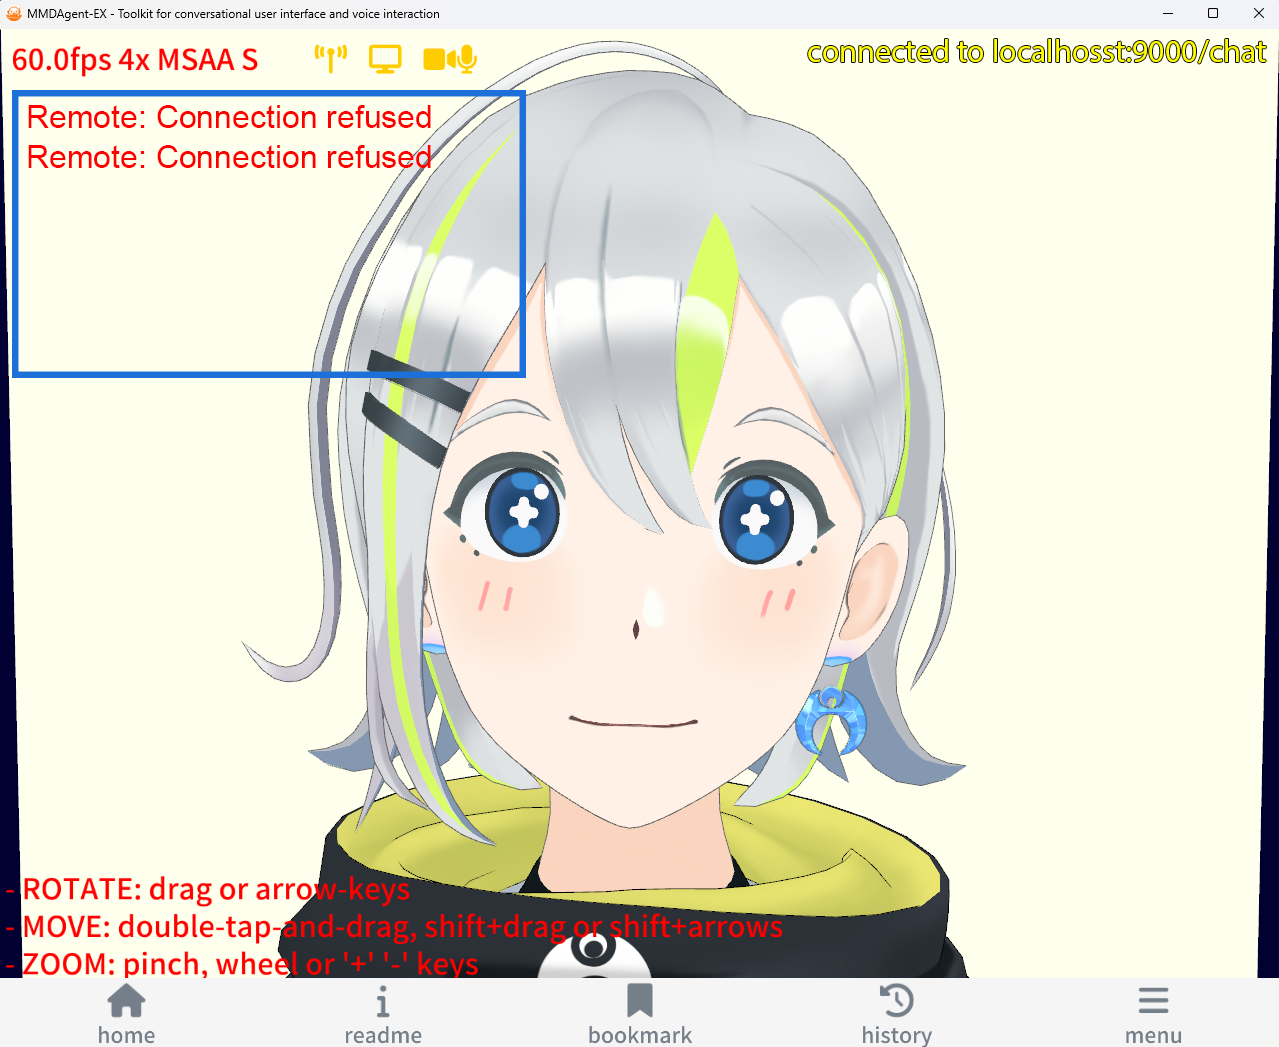
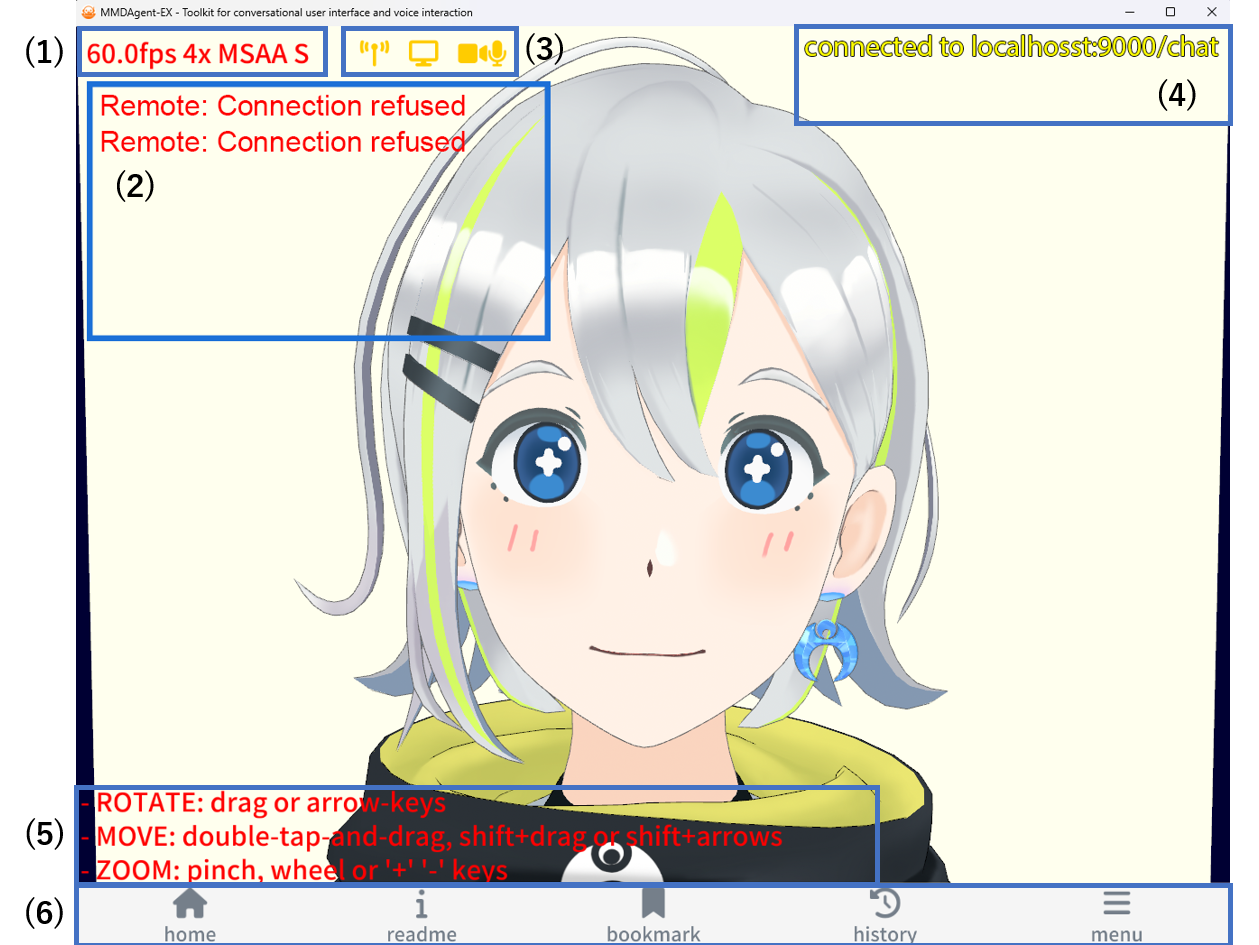
updating existing documents

Changed region(s): [[0.0, 0.0, 1.0, 1.0], [0.4647, 0.6751, 0.5576, 0.7058], [0.4956, 0.5831, 0.5266, 0.6138]]

diff --git a/content.ja/docs/10_screen.md b/content.ja/docs/10_screen.md
@@ -2,45 +2,46 @@
 title: ウィンドウの見方
 slug: screen
 ---
+# ウィンドウの見方
 
-スクリーンショット：
+コンテンツ再生時の画面サンプル：
 
 ![サンプル画面](/images/screen.png)
 
-### 青枠内：エラーメッセージ
+### (1) 表示状態
 
-エラー時に左上の青枠の部分にエラーメッセージが常時表示される
-
-
-### 左上：動作状態
-
-機能がONのときのみ表示されるものもある。`s` キーで ON/OFFできる。
+現在の表示状態。`s` キーで ON/OFFできる。
 
 - `60.0fps` 表示速度 (fps)
-- `4x MSAA` アンチエイリアス (MSAA) 強度　大きいほど線が滑らかに表示されるが重くなる
+- `4x MSAA` アンチエイリアス (MSAA) 強度
 - `[AL数字]` AutoLuminous (部位発光) の発効強度
-- `S` 影表示： S = 投射影 SM =シャドウマップ(重め) なし=影なし
+- `S` 影の表示方法： S = 投射影 SM =シャドウマップ(重め) なし=影なし
 - `[DF数字|数字]` Diffusion Effect (拡散効果) の強度と範囲
 
-### 中央上：通信状態
+### (2) エラーメッセージ
+
+システムエラーが生じた場合、ここにエラーの内容が表示される。
+
+### (3) 通信状態
+
+WebSocket 通信時に接続状態を表すアイコンが表示される。
 
 - ![Net Icon](/images/icon1.png): WebSocketサーバと接続状態
-- ![Screen Icon](/images/icon2.png): 画面のキャプチャをサーバへ伝送中
-- ![Video Icon](/images/icon3.png): 音声およびWebカメラ映像をサーバへ伝送中
+- ![Screen Icon](/images/icon2.png): 画面のキャプチャをサーバへ伝送中（未実装）
+- ![Video Icon](/images/icon3.png): 音声およびWebカメラ映像をサーバへ伝送中（未実装）
 
-### 右上：通信ログ
+### (4) 通信メッセージ
 
-接続・切断・リトライなど、ネットワーク状態が変更されたときメッセージが表示される。
+WebSocketサーバとの接続状態が変化したときにメッセージが表示される。
 
-### 左下：ヘルプ
+### (5) ヘルプ・ガイド
 
-操作状況に応じてヘルプやガイドを表示。上記サンプルは `c` キーでカメラ移動を可能な状態にしたとき
+操作状況に応じてヘルプやガイドが表示される。
 
-### 下：タブバー
+### (6) タブバー
 
 - **home**: ホームコンテンツを開く
-- **readme**: コンテンツの README を開く
+- **readme**: 再生中コンテンツに付属の README を閲覧
 - **bookmark**: ブックマークを開く
 - **history**: 履歴を開く
 - **menu**: メニューを開く
-

diff --git a/content.ja/docs/30_log.md b/content.ja/docs/30_log.md
@@ -2,16 +2,19 @@
 title: ログ画面の見方
 slug: log
 ---
+# ログ画面の見方
+
+「簡易ログ（'d' キー）」と「詳細ログ（`Shift+f`キー）」の2種類があります。
 
 ## 簡易ログ
 
-`D` キーでシーン内に3Dでログが表示されます。（再度 `D` キーで消せます）
+`d` キーでシーン内に3Dでログが表示されます。再度 `d` キーで消せます。
 
 ![Log 1](/images/log1.png):
 
-- **Message Log**: メッセージキューに流れたメッセージのログ
-  - Sent: メッセージを発行したモジュール名とメッセージ内容
-  - Captured: メッセージを受け取り処理を行ったモジュール名とメッセージ内容
+- **Message Log**: メッセージのログ
+  - Sent: メッセージが発行された
+  - Captured: メッセージを受け取って処理をした
 - **System Log**: システムログ
   - FSTの遷移情報
   - ネットワーク状況
@@ -19,7 +22,7 @@ slug: log
 
 ## 詳細ログ
 
-`Shift+F` キーで対話スクリプト（.fst）を含めた詳細なログが表示されます。ログは画面上にオーバーレイで表示されます。再度 `Shift+F` で消せます。
+`Shift+f` キーで対話スクリプト（.fst）を中心とした詳細なログが表示されます。再度 `Shift+f` で消せます。
 
 ![Log 2](/images/log2.png)
 
@@ -27,9 +30,9 @@ slug: log
   - FSTの遷移情報の時系列
   - ネットワーク状況
   - その他のシステムログ
-- **Message Log**: メッセージキューに流れたメッセージのログ（上記と同じ）
-  - Sent: メッセージを発行したモジュール名とメッセージ内容
-  - Captured: メッセージを受け取り処理を行ったモジュール名とメッセージ内容
-- **FST Status**: 対話シナリオFSTファイルの状態表示（詳細ログにのみ表示）
-  - FSTのファイル名、直前の遷移、現在の状態、次に待っているメッセージをリアルタイム更新
-  - サブFST機能を使って複数のFSTを動かしているときは、FSTごとに表示
+- **Message Log**: メッセージのログ（上記と同じ）
+  - Sent: メッセージが発行された
+  - Captured: メッセージを受け取って処理をした
+- **FST Status**: 対話スクリプトごとの状態表示
+  - FST ごとに、遷移履歴、現状態、待っているメッセージを表示
+  - サブFST機能使用時は各FSTごとに表示

diff --git a/content.ja/docs/00_build.md b/content.ja/docs/00_build.md
@@ -12,7 +12,6 @@ slug: build
 - **Linux**: Ubuntu-22.04, Ubuntu-20.04, Ubuntu-22.04 on WSL
 - **WIndows**: Windows 11 with Visual Studio 2022
 
-
 ## コードの入手
 
 Git でレポジトリを入手する。入手の際には Git LFS 拡張が必要。事前にインストールするか Git LFS 対応のツールを使うこと。
@@ -110,7 +109,12 @@ Visual Studio 2022 でビルドする。
 
 ## ビルドファイル
 
-実行に必要な全てのファイルは `Release` フォルダ以下に生成される。以下はWindowsの例。macOSとLinuxでは .exe 拡張子は無く .dll は .so になる。`AppData` 以下には実行時に必要な各種データファイルがあり、`DLLs` には動作に必要な外部 DLL が同梱されている（Windowsのみ）。
+実行に必要な全てのファイルは `Release` フォルダ以下に生成される。
+{{< hint info >}}
+以下はWindowsの例。macOSとLinuxでは .exe 拡張子は無く .dll は .so になる。
+{{< /hint >}}
+
+`AppData` 以下には実行時に必要な各種データファイルがあり、`DLLs` には動作に必要な外部 DLL が同梱されている（Windowsのみ）。
 
 ```text
 Release/

diff --git a/content.ja/menu/index.md b/content.ja/menu/index.md
@@ -2,7 +2,8 @@
 headless: true
 ---
 
-[ライセンスと利用指針]({{< relref "/docs/license_and_guideline" >}})
+- [ライセンスと利用指針]({{< relref "/docs/license_and_guideline" >}})
+<br />
 
 - **使い方**
 - [チュートリアル]({{< relref "/docs/33_asr_setup" >}})
@@ -30,6 +31,7 @@ headless: true
 - 画像やテキストを表示する
 - フレームを付ける
 - 他のプログラムと連携する
+<br />
 
 - **開発**
 - [パラメータ設定]({{< relref "/docs/40_mdf" >}})

diff --git a/content.ja/docs/55_fst.md b/content.ja/docs/55_fst.md
@@ -11,6 +11,8 @@ MMDAgent(-EX) の動作スクリプトは、条件と動作を状態遷移モデ
 
 MMDAgent では `Shift+f` キーで .fst のデバッグウィンドウが内部に表示される。また `e` キーで実行中の fst ファイルをエディタで開くことができる。動作の確認に活用されたい。
 
+サブFSTの使い方。
+
 ## VSCode 拡張
 
 .fst ファイル用の VS Code 拡張をリリースしているので使ってみてください。

diff --git a/content.ja/docs/20_keybinds.md b/content.ja/docs/20_keybinds.md
@@ -2,6 +2,7 @@
 title: キーとマウスの操作
 slug: keybinding
 ---
+# キーとマウスの操作
 
 MMDAgent-EX はマウスとキーで操作できる。以下、操作方法。
 
@@ -124,7 +125,7 @@ Windowsのみ
 |image file|どこでも|Ctrl|床イメージを入れ替え|png, jpg, bmp, tga|
 |.xpmd|どこでも|-|ステージ入れ替え||
 
-## Plugin_Julius (OBSOLETE)
+## 音声認識（Plugin_Julius）
 
 Plugin_Julius 有効時のみ
 
